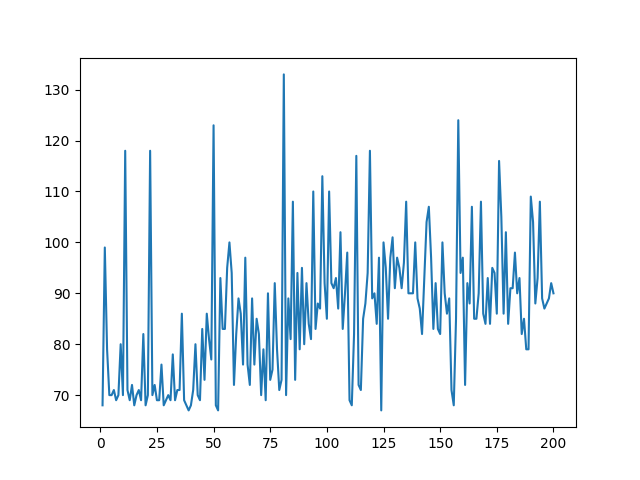
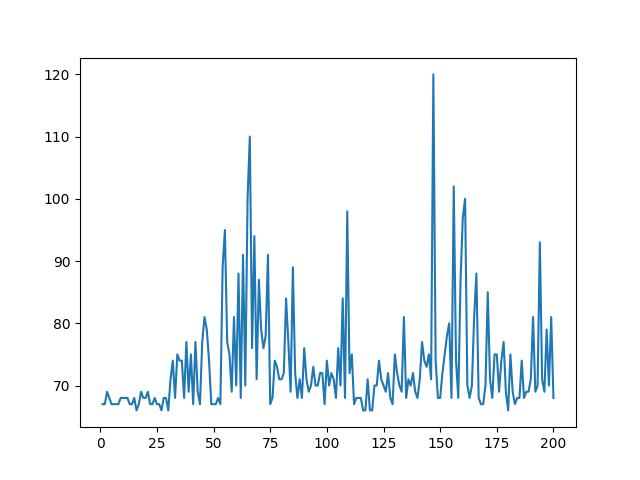
environment

diff --git a/run_dqn.py b/run_dqn.py
@@ -1,80 +1,45 @@
 from trainer.Q_Learning.ddqn import DDQN, MEMORY_CAPACITY
-from environments.single_discrete import DQN_Environment
+from environments.instances import discrete_single
 from utils.utils import plot_curve
+                   
+env = discrete_single.TestEnvironment_2
+n_games = 200
+ddqn = DDQN(env.get_linear_state_length(), 5, env)
+best_action_sequence = []
+best_num_steps = 9999999999999999
+episode_rewards = []
+num_steps = []
 
-def test_env():
-    board = [[3, 0, 0, 0, 0],
-            [0, 0, 0, 0, 0],
-            [0, 0, 0, 0, 1],
-            [0, 0, 0, 0, 0],
-            [0, 0, 2, 0, 0]]
-    startAt = [0 ,0]
-    arrivalAt = [4,4]
-    env = DQN_Environment(board=board)
-    data_volumn = [200, 500, 800]
-    env.init(startAt=startAt, arrivalAt=arrivalAt, data_volume=data_volumn)
-    return env
+for i in range(n_games):
+    print('<<<<<<<<<Episode: %s' % i)
+    s, current_position = env.reset()
+    episode_reward_sum = 0
 
-def init_env():
-    board = []
-    for i in range(10):
-        boardrow = []
-        for j in range(10):
-            boardrow.append(0)
-        board.append(boardrow)
-    startAt = [0, 0]
-    arrivalAt = [9, 9]
-    board[0][1] = 1 ## first tower
-    board[4][7] = 2 ## second tower
-    board[9][3] = 3 ## third tower
-    # board[27][27] = 4
-    # board[13][12] = 5
-    # board[40][30] = 6
-    env = DQN_Environment(board=board)
-    data_volumn = [300, 500, 800]
-    env.init(startAt=startAt, arrivalAt=arrivalAt, data_volume=data_volumn)
-    return env
+    while True:
+        # env.render()
+        a = ddqn.choose_action(s, current_position)
+        s_, r, done, current_position = env.step(a)
 
-if __name__ == "__main__":                            
-    env = init_env()
-    # dqn = DQN(5, 5, env.get_action_space().n(), env=env)
-    n_games = 200
-    ddqn = DDQN(env.get_linear_state_length(), 5, env)
-    best_action_sequence = []
-    best_num_steps = 9999999999999999
-    episode_rewards = []
-    num_steps = []
+        ddqn.store_transition(s, a, r, s_, done)
+        episode_reward_sum += r
 
-    for i in range(n_games):
-        print('<<<<<<<<<Episode: %s' % i)
-        s, current_position = env.reset()
-        episode_reward_sum = 0
+        s = s_
 
-        while True:
-            # env.render()
-            a = ddqn.choose_action(s, current_position)
-            s_, r, done, current_position = env.step(a)
+        if ddqn.memory_counter > MEMORY_CAPACITY:
+            ddqn.learn()
 
-            ddqn.store_transition(s, a, r, s_, done)
-            episode_reward_sum += r
+        if done:
+            print('episode%s---reward_sum: %s' % (i, round(episode_reward_sum, 2)))
+            env.view()
+            break
 
-            s = s_
+    num_steps.append(env.num_steps)
+    if env.num_steps < best_num_steps:
+        best_num_steps = env.num_steps
+        ddqn.save_models()
 
-            if ddqn.memory_counter > MEMORY_CAPACITY:
-                ddqn.learn()
-
-            if done:
-                print('episode%s---reward_sum: %s' % (i, round(episode_reward_sum, 2)))
-                env.view()
-                break
-
-        num_steps.append(env.num_steps)
-        if env.num_steps < best_num_steps:
-            best_num_steps = env.num_steps
-            ddqn.save_models()
-
-        episode_rewards.append(round(episode_reward_sum, 2))
-            
-    x = [i+1 for i in range(n_games)]
-    plot_curve(x, episode_rewards, './results/rewards.png', 1)
-    plot_curve(x, num_steps, './results/step.png', 2)
+    episode_rewards.append(round(episode_reward_sum, 2))
+        
+x = [i+1 for i in range(n_games)]
+plot_curve(x, episode_rewards, './results/rewards.png', 1)
+plot_curve(x, num_steps, './results/step.png', 2)

diff --git a/environments/instances/discrete_single.py b/environments/instances/discrete_single.py
@@ -1,0 +1,32 @@
+from environments.config.single_discrete import DQN_Environment
+
+board = [[3, 0, 0, 0, 0],
+        [0, 0, 0, 0, 0],
+        [0, 0, 0, 0, 1],
+        [0, 0, 0, 0, 0],
+        [0, 0, 2, 0, 0]]
+startAt = [0 ,0]
+arrivalAt = [4,4]
+
+TestEnvironment = DQN_Environment(board=board)
+data_volumn = [200, 500, 800]
+TestEnvironment.init(startAt=startAt, arrivalAt=arrivalAt, data_volume=data_volumn)
+
+
+board = []
+for i in range(10):
+    boardrow = []
+    for j in range(10):
+        boardrow.append(0)
+    board.append(boardrow)
+startAt = [0, 0]
+arrivalAt = [9, 9]
+board[0][1] = 1 ## first tower
+board[4][7] = 2 ## second tower
+board[9][3] = 3 ## third tower
+# board[27][27] = 4
+# board[13][12] = 5
+# board[40][30] = 6
+TestEnvironment_2 = DQN_Environment(board=board)
+data_volumn = [300, 500, 800]
+TestEnvironment_2.init(startAt=startAt, arrivalAt=arrivalAt, data_volume=data_volumn)
